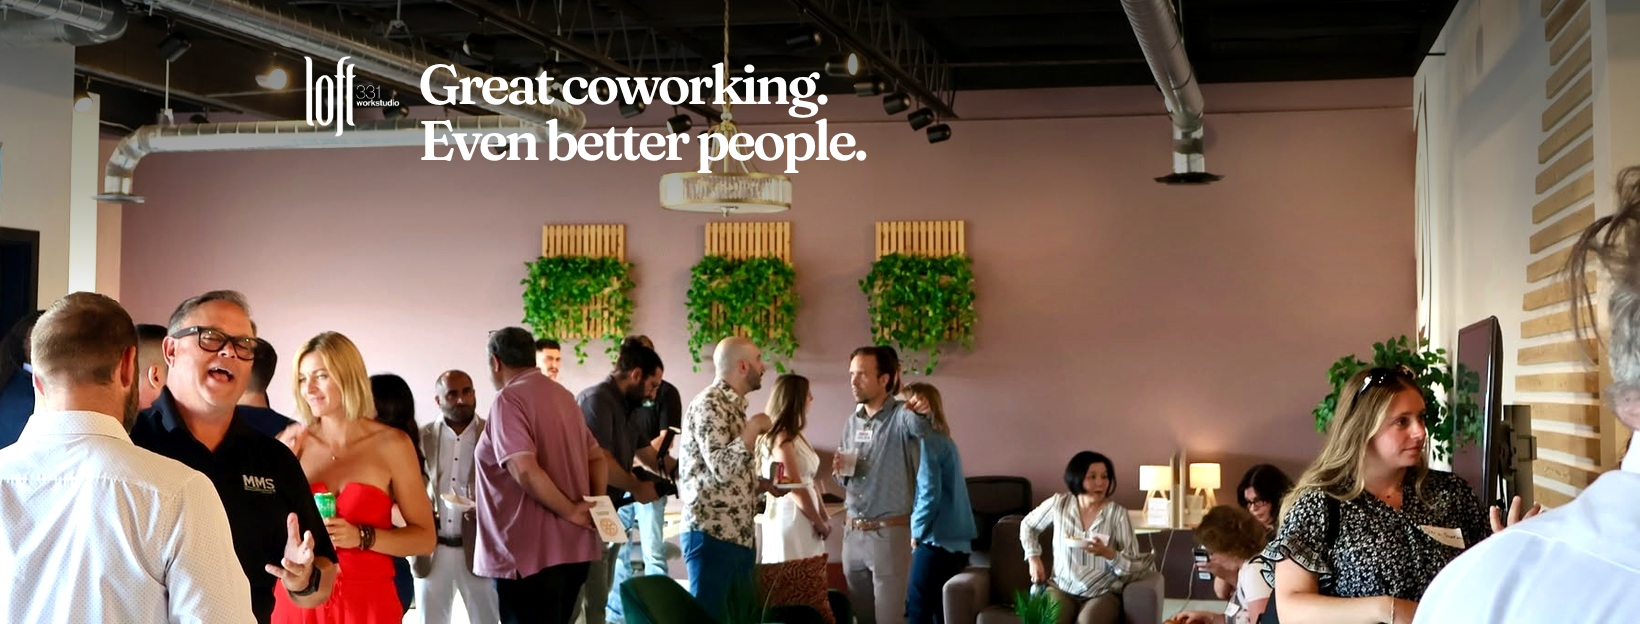
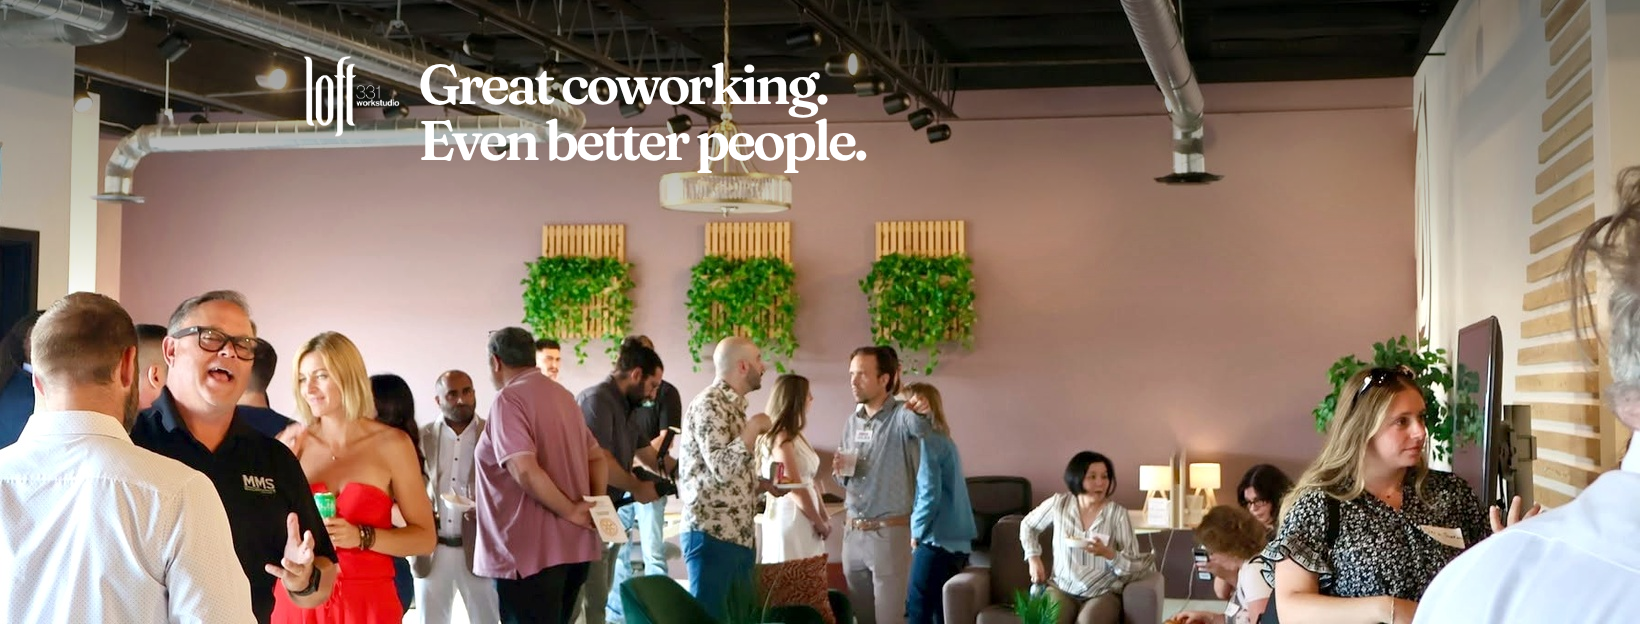
Facebook cover: brighter
Claude-Session: https://claude.ai/code/session_018FS3dSG8LGvce1L6SkbsmJ

diff --git a/tools/social/template-fb-cover-top.html b/tools/social/template-fb-cover-top.html
@@ -7,7 +7,7 @@
   html,body{width:100vw;height:100vh;overflow:hidden;}
   body{position:relative;background:#111;}
   .photo{position:absolute;inset:0;background-image:url('{{PHOTO}}');background-size:cover;background-position:{{PHOTO_POS}};}
-  .overlay{position:absolute;inset:0;background:linear-gradient(to bottom,rgba(0,0,0,0.55) 0%,rgba(0,0,0,0.30) 30%,rgba(0,0,0,0) 50%);}
+  .overlay{position:absolute;inset:0;background:linear-gradient(to bottom,rgba(0,0,0,0.45) 0%,rgba(0,0,0,0.22) 30%,rgba(0,0,0,0) 48%);}
   /* Facebook crops the sides on mobile: keep everything inside the centre 68% */
   .logo{position:absolute;top:9vh;left:18vw;height:5.2vw;display:block;}
   .headline{position:absolute;left:25.5vw;top:9vh;font-size:3.4vw;line-height:var(--leading-tight);color:var(--color-white);margin:0;}
